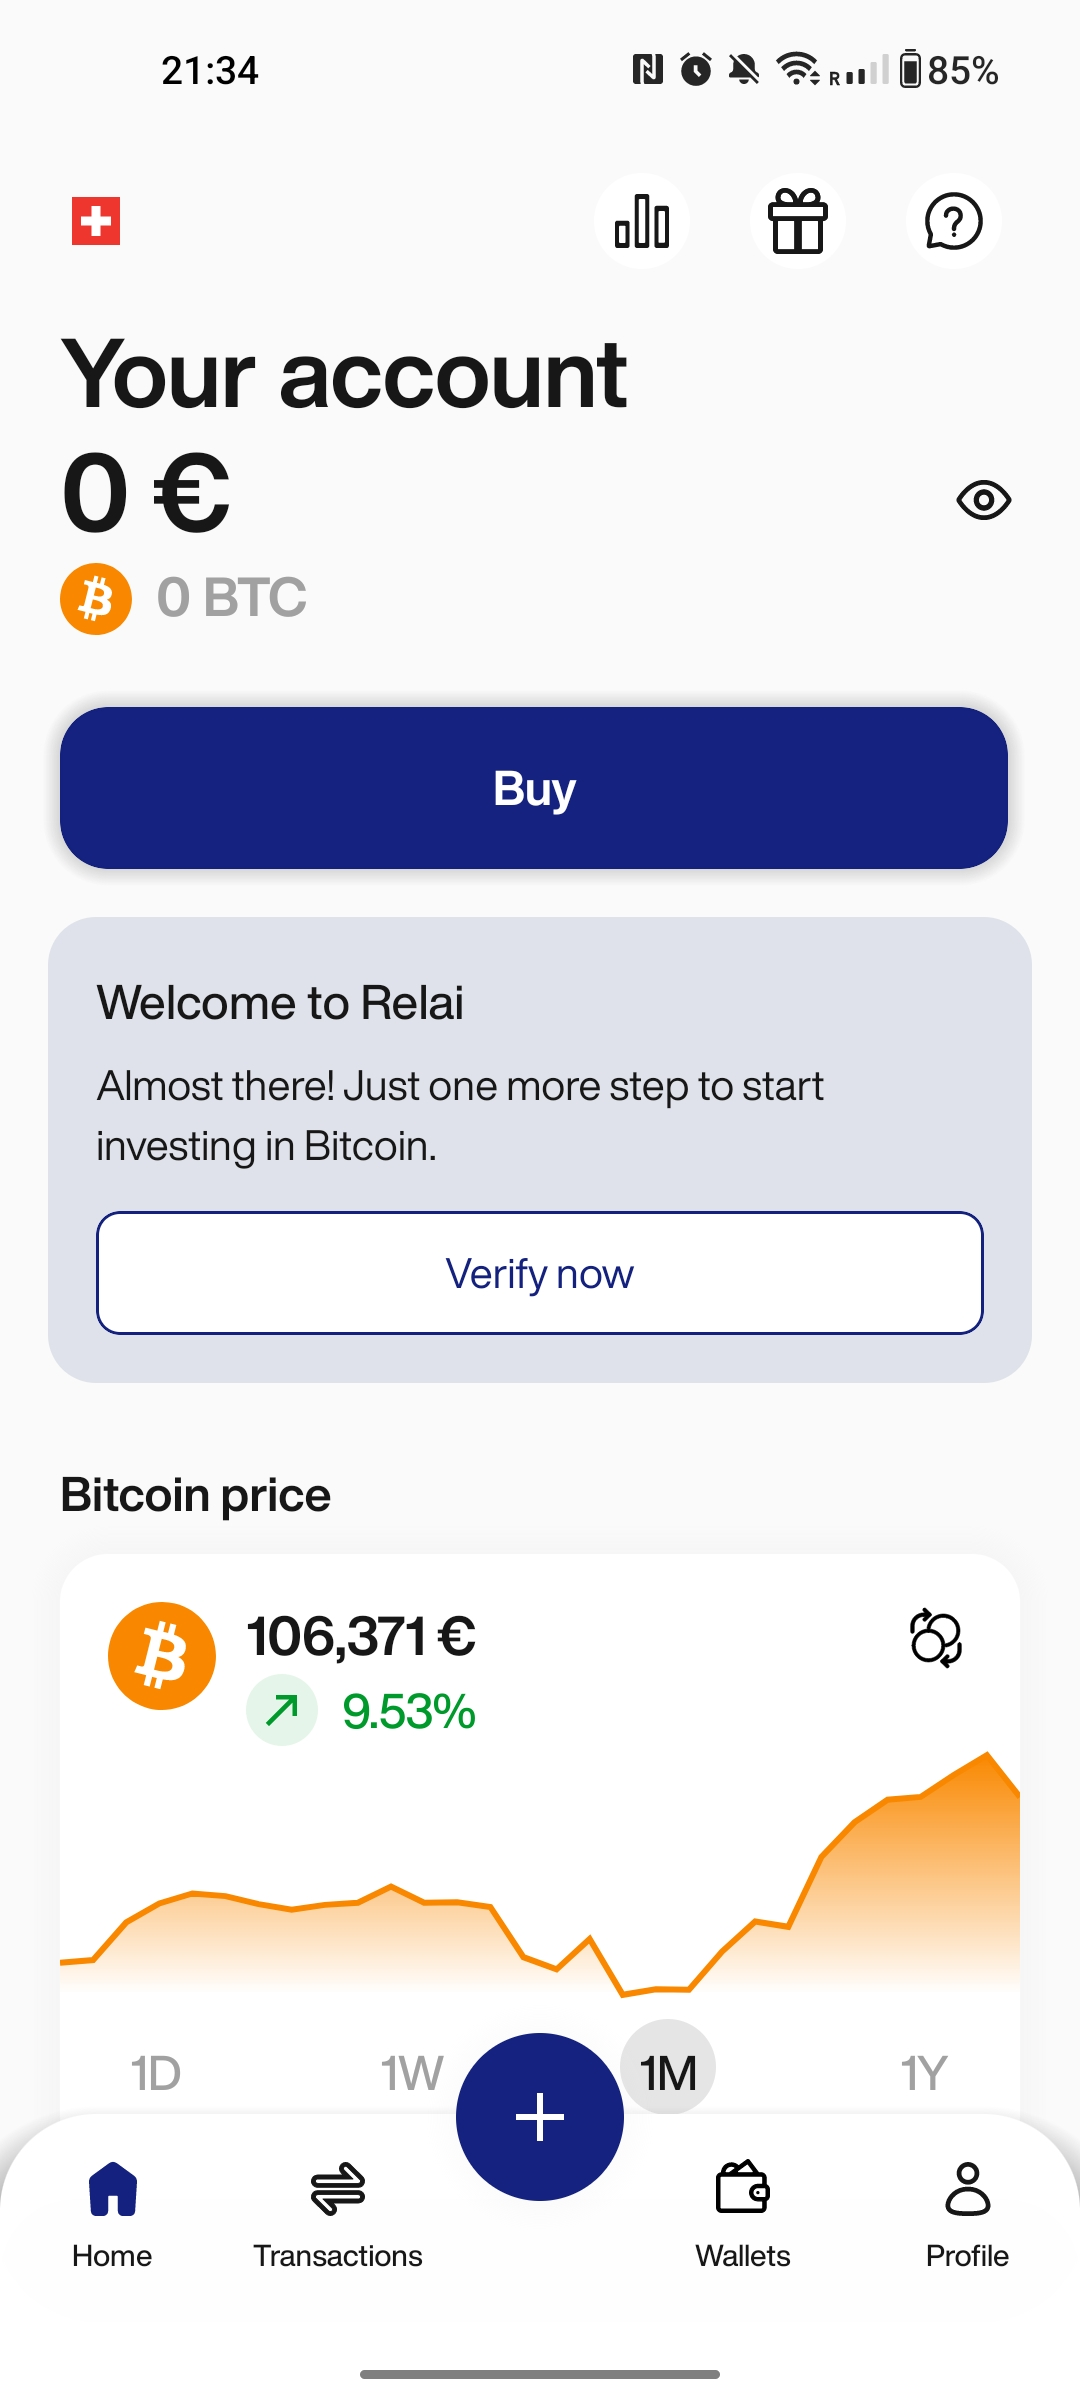
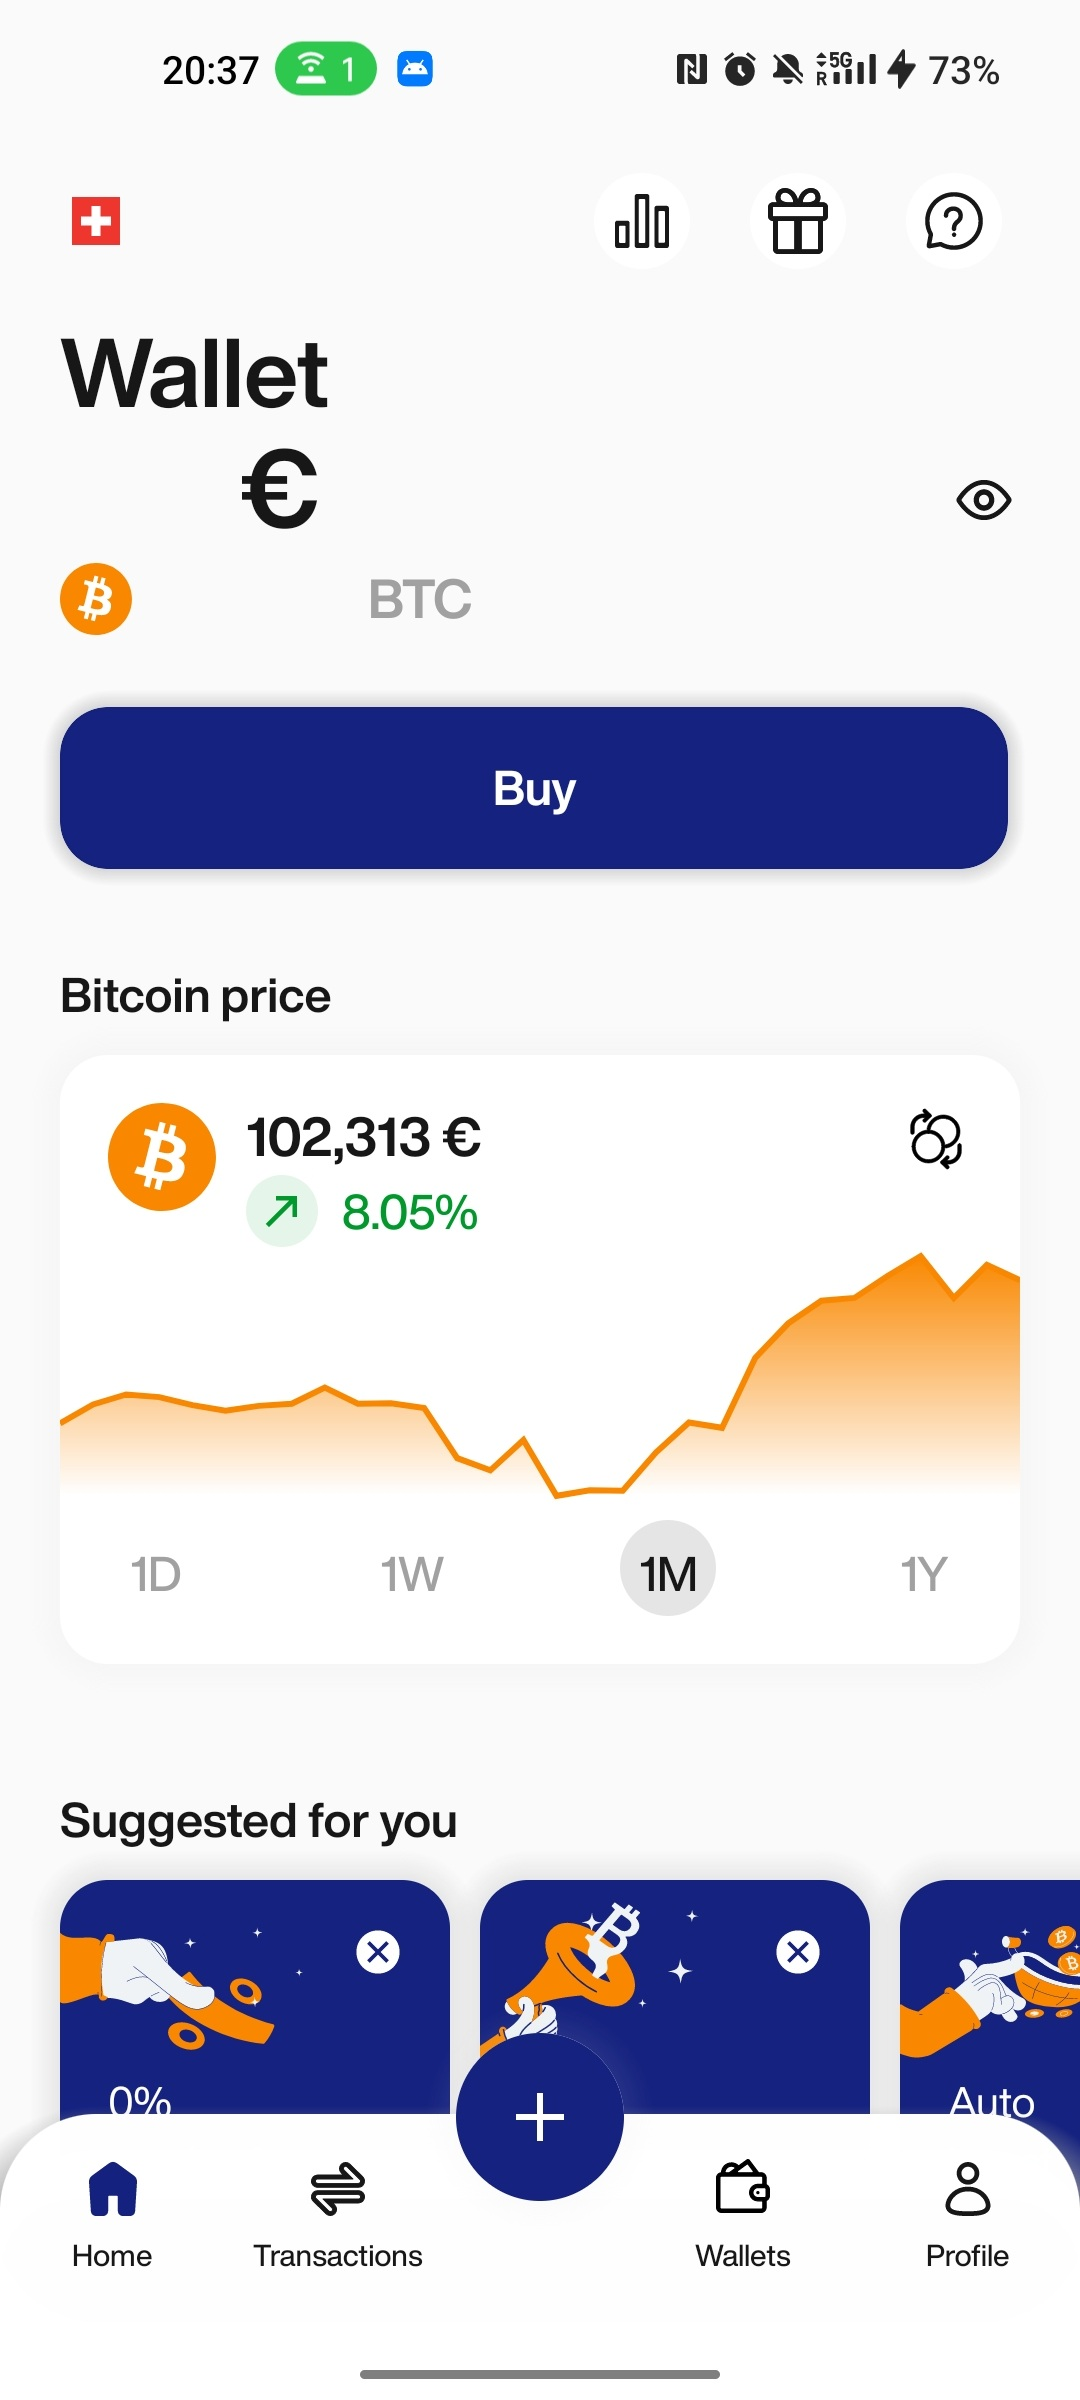
Periodic purchases with Relai completed and with images

diff --git a/content/blog/2025-10-19-bitcoin-2.md b/content/blog/2025-10-19-bitcoin-2.md
@@ -76,15 +76,15 @@ cover_image = "/images/blog/2025-10-14-bitcoin-2/bitcoin-2.png"
         <li>Select <b>weekly auto-invest or Monthly auto-invest</b></li>
         <li>Select <b>Payment Method</b></li>
         <li>Review the order summary and click <b>Buy Now</b> (ignore "Use external wallet" for now, we'll cover that later)</li>
-        <li>Copy the <b>Payment Details</b> into your bank account</li>
-        <li><b>Done</b></li>
+        <li>Copy the <b>Payment details</b> into your bank account</li>
+        <li>Click <b>Done</b></li>
       </ul>
       <div class="phone-images-row">
         <img class="phone-image" src="/images/blog/2025-10-14-bitcoin-2/relai-1.jpg"></img>
-        <img class="phone-image" src="/images/blog/2025-10-14-bitcoin-2/relai-1.jpg"></img>
-        <img class="phone-image" src="/images/blog/2025-10-14-bitcoin-2/relai-1.jpg"></img>
+        <img class="phone-image" src="/images/blog/2025-10-14-bitcoin-2/relai-2.jpg"></img>
+        <img class="phone-image" src="/images/blog/2025-10-14-bitcoin-2/relai-3.jpg"></img>
       </div>
-    <p>Use the information in <b>Payment Details</b> to set up automatic Bitcoin purchases from your bank account to Relai. Start with an amount you're comfortable with, perhaps 100€ per month, and then adjust as you gain experience.</p>
+    <p>Use the information in <b>Payment details</b> to set up automatic Bitcoin purchases from your bank account to Relai. Start with an amount you're comfortable with, perhaps 100€ per month, and then adjust as you gain experience.</p>
     <p>Key details to note:</p>
     <ul>
       <li><b>Up to 100€ every month with 0% purchase fee!</b></li>
